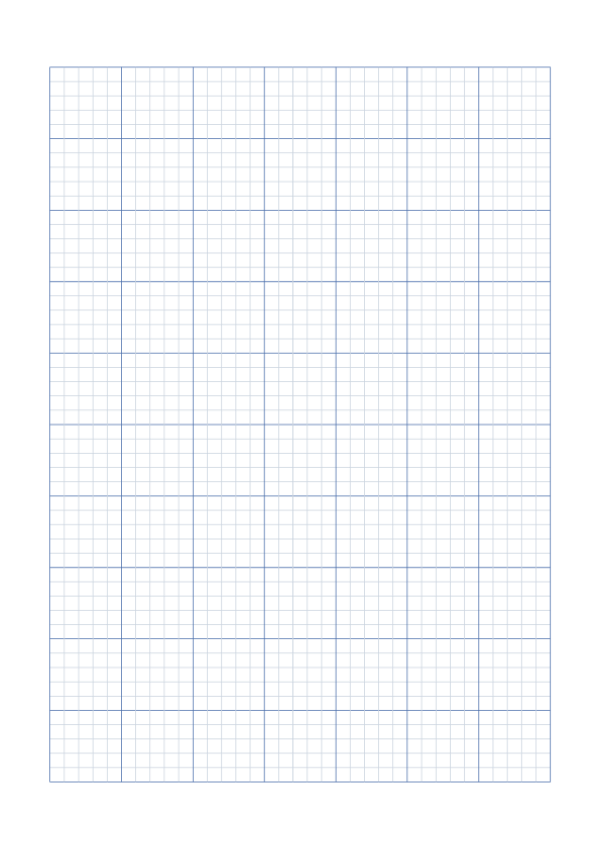
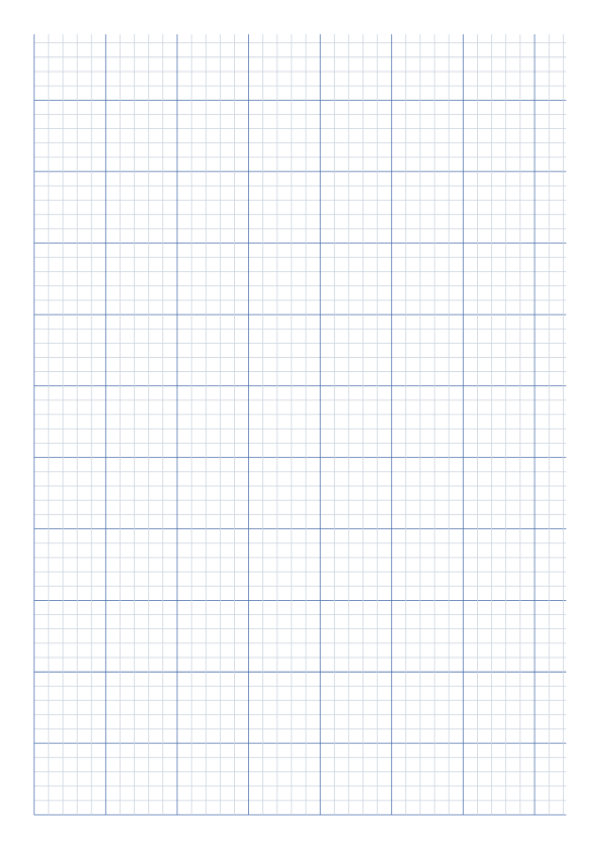
examples: show both squared-paper conventions — fill the area, or whole blocks
The two behaviours the tool already offers through `pattern.snap`, now side by
side so a user can pick:

- 01-lines-squared: fill the whole area. Cells run to the edges and the last
  block of majors may be partial — a thick line that no longer fits is left off.
  `snap` omitted, `remainder: end` so the sub-cell leftover sits blank at the
  far edge.
- 01b-lines-squared-blocks: only complete patterns. `snap: cycle` rounds the
  area down to whole 25 mm major blocks, so every edge is a heavy line and no
  block is partial; the leftover is blank margin.

Neither ever draws a partial cell. The gallery names `snap` as the switch
between them.

Changed region(s): [[0.03, 0.0306, 0.96, 0.98]]

diff --git a/examples/README.md b/examples/README.md
@@ -19,7 +19,8 @@ proportionally.
 
 | Preview | What it is |
 |---|---|
-| <img src="previews/01-lines-squared.png" width="220"> | **`lines`** — 5 mm squared paper, whole cells only (`snap: cycle`), every fifth line a heavy major.<br>[`01-lines-squared.yaml`](01-lines-squared.yaml) · [PDF](01-lines-squared.pdf) |
+| <img src="previews/01-lines-squared.png" width="220"> | **`lines`** — 5 mm squared paper filling the whole page: cells run to the edges and the last block of majors may be partial. `pattern.snap` is the switch — this one omits it (fill as much as fits).<br>[`01-lines-squared.yaml`](01-lines-squared.yaml) · [PDF](01-lines-squared.pdf) |
+| <img src="previews/01b-lines-squared-blocks.png" width="220"> | **`lines`** (complete blocks) — the same, but `snap: cycle` keeps only whole 25 mm blocks, so every edge is a heavy major line and the leftover stays blank margin.<br>[`01b-lines-squared-blocks.yaml`](01b-lines-squared-blocks.yaml) · [PDF](01b-lines-squared-blocks.pdf) |
 | <img src="previews/02-dots-grid.png" width="220"> | **`dots`** — a 5 mm dot grid, every fifth dot larger and darker.<br>[`02-dots-grid.yaml`](02-dots-grid.yaml) · [PDF](02-dots-grid.pdf) |
 | <img src="previews/03-grid-battleship.png" width="220"> | **`grid`** — a 12 × 12 labelled board (A…, 1…) with a checker fill.<br>[`03-grid-battleship.yaml`](03-grid-battleship.yaml) · [PDF](03-grid-battleship.pdf) |
 | <img src="previews/04-staves-treble.png" width="220"> | **`staves`** — treble-clef manuscript paper; the clef is a glyph from the bundled music font.<br>[`04-staves-treble.yaml`](04-staves-treble.yaml) · [PDF](04-staves-treble.pdf) |
